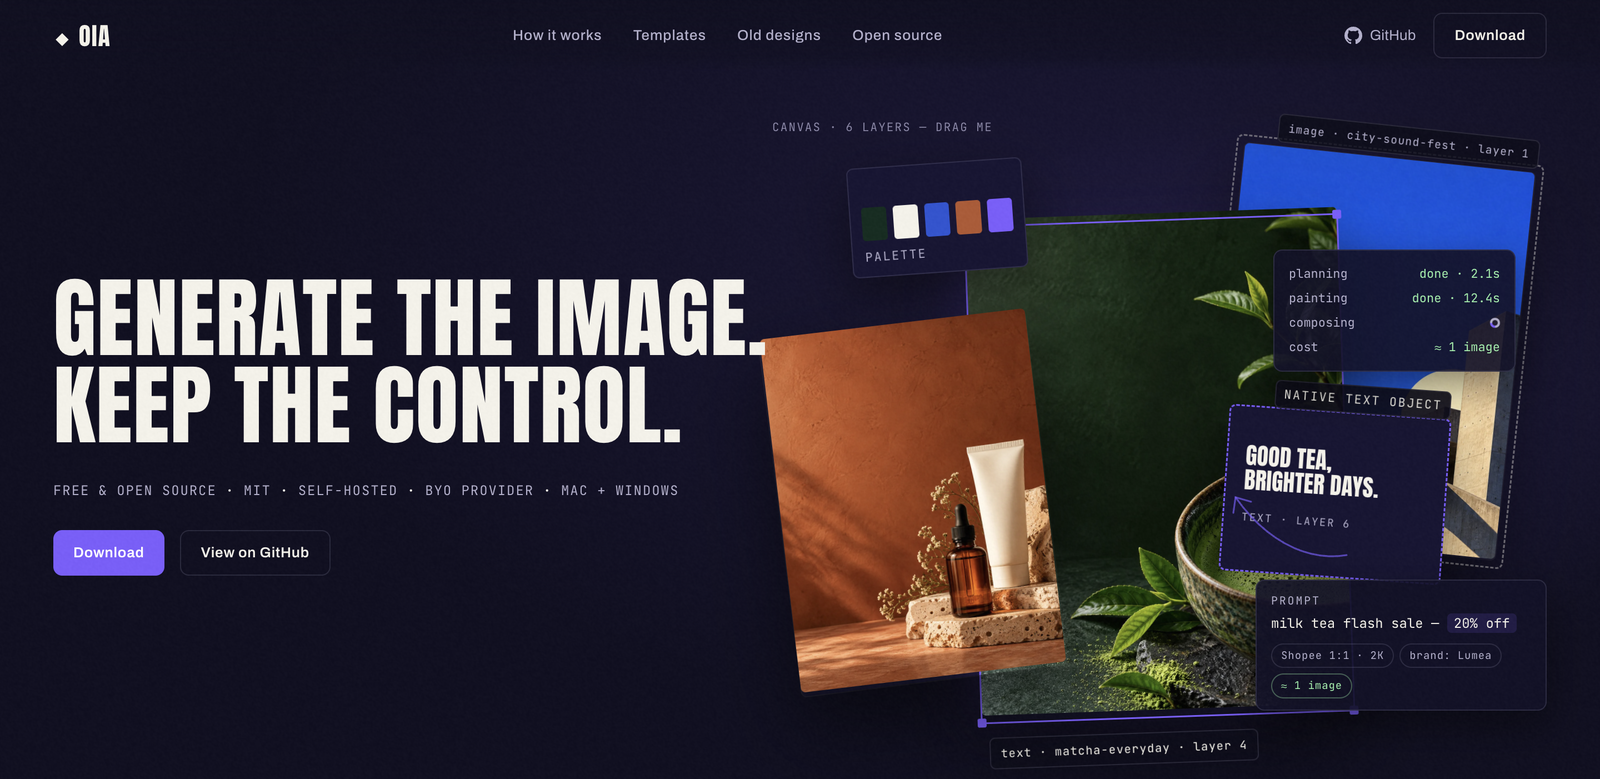
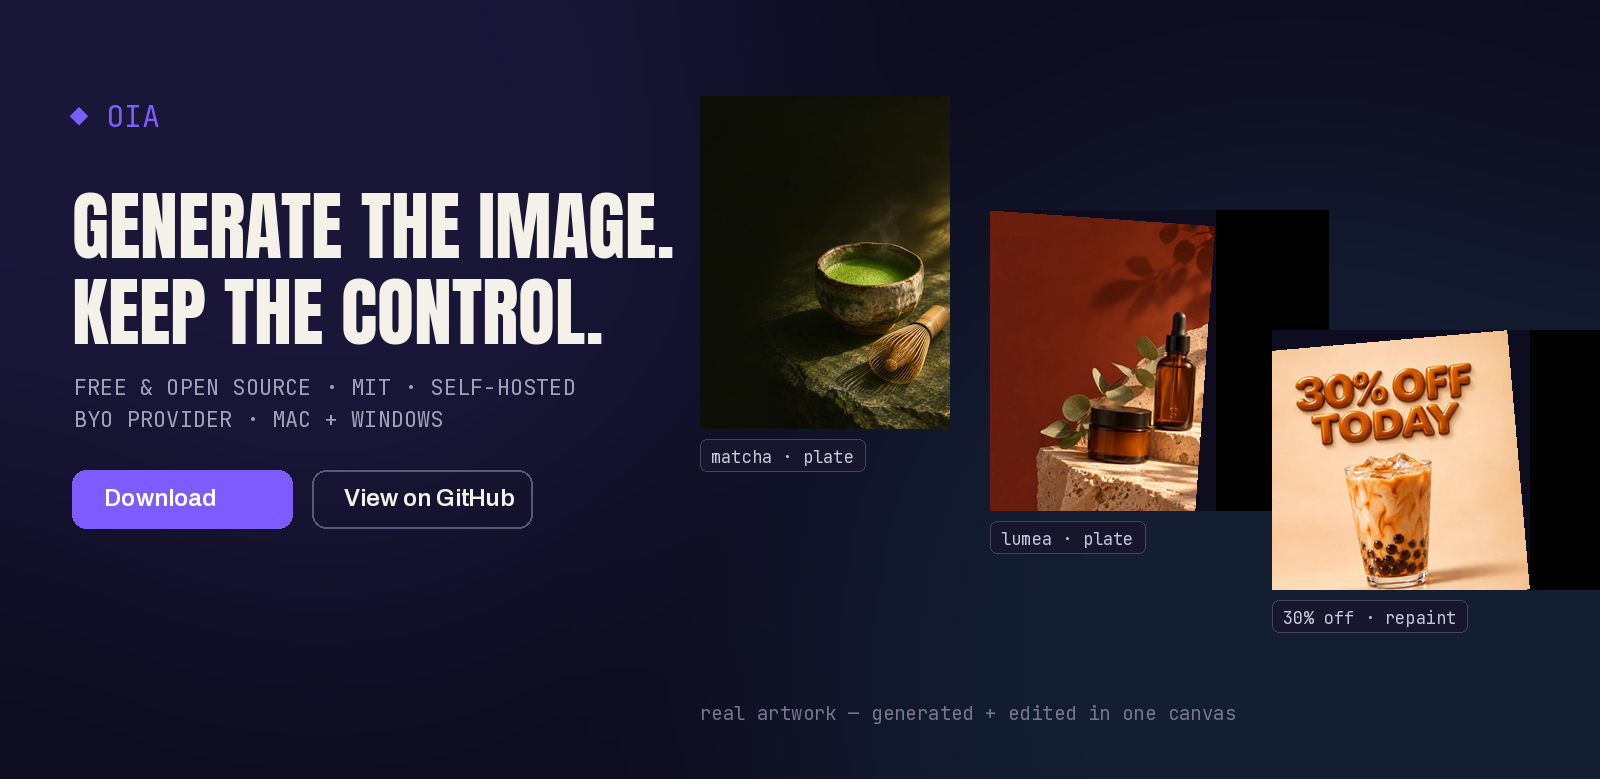
site: replace every landing + README artwork — 19 new generations on the current model
Owner: the old images were from the old-model era, generated without real
prompts, and looked bad ("ảnh cũ thời model cũ chưa có prompt… thay toàn bộ").
The whole visible surface is regenerated in one quota-recorded batch through
the pinned codex pair (rust-v0.167.0), each image with a full prompt; the
prompt sheet IS the provenance record (docs/research/site-artwork-2026-11/).

- 9 template plates + 3 ed-plates + the price-20/30 pair (generated as one
  poster + one true edit so the repaint story stays real) + laborday: 15
  passed vision QC first try — no stray text in any plate, exact copy in
  the posters, matched scene across the pair.
- 4 regens after compositing: botanical and ed-poster2 plates came back too
  light for their light-colored text layers (plates regenerated with the
  dark zone on the right column), sneaker needed a near-black backdrop and
  one data fix in studio-templates.ts ("THE DROP — 12.12" wrapped onto the
  caption line at width 500). Template QA after: 12/12 PASS.
- Derived assets rebuilt from the new set: price-repaint.webp (side-by-side
  pair), the tpl-ed-* bento composites, README banner.png (make-banner.py),
  and a fully rebuilt og-hero.png (new script — the old social preview still
  showed the retired "Old designs" nav).
- App and site stay in sync: every plate lands in BOTH site/assets and the
  renderer's public/studio. Gates after the swap: desktop 202 tests, shot
  green (incl. the ME scenario), smoke OK.
[…]

diff --git a/apps/desktop/src/shared/studio-templates.ts b/apps/desktop/src/shared/studio-templates.ts
@@ -82,8 +82,8 @@ export const STUDIO_TEMPLATES: Template[] = [
     text("RUN LIGHTER.\nLAND SOFTER.", 60, 210, 640, 40, "#c9ccd4" ),
     // visual-QA: the caption nearly melted into the light gradient — near-white now;
     // the date (the actionable line) bumped to rival the tagline.
-    text("THE DROP — 12.12", 470, 1284, 500, 60, "#ffb347", { fontWeight: 800, textAlign: "right" }),
-    text("Limited first run · members early access", 470, 1368, 500, 26, "#e8eaee", { textAlign: "right" }),
+    text("THE DROP — 12.12", 420, 1276, 550, 52, "#ffb347", { fontWeight: 800, textAlign: "right" }),
+    text("Limited first run · members early access", 470, 1360, 500, 24, "#e8eaee", { textAlign: "right" }),
   ], { category: "new-product", pack: "product-launch", w: 1024, h: 1536 }),
   template("holiday", "Year-end blowout", "#0d2b1e", "holiday", [
     text("YEAR-END\nBLOWOUT", 60, 110, 640, 120, "#f5e9c8", { fontWeight: 800, lineHeight: 0.95 }),

diff --git a/docs/research/site-artwork-2026-11/gen.py b/docs/research/site-artwork-2026-11/gen.py
@@ -1,0 +1,130 @@
+#!/usr/bin/env python3
+"""IM-site-art 2026-11-08 — regenerate every AI artwork on the landing site + README.
+
+Owner: "ảnh trong landing page, ảnh trong readme đang rất xấu… ảnh cũ thời model
+cũ chưa có prompt. Tôi cần thay toàn bộ."
+
+Stages (run with the stage argument):
+  gen    — run each prompt through the BUNDLED codex binary ($imagegen), stage the
+           raw PNG into staging/<id>.png, then cover-crop to the exact target size
+  qa     — print the contact sheet path for vision QA (nothing installs without this)
+  install — copy staged webp over site/assets + app public/studio, rebuild derived
+           assets (price-repaint pair composite), leaving README banner/og-hero to
+           their own scripts
+
+Quota: 16 images + planner tokens (owner-approved 2026-11-08).
+Provenance: the prompt sheet below IS the record (SC-4 doctrine).
+"""
+import subprocess, sys, os, time, json, re, shutil
+from PIL import Image
+
+REPO = os.path.dirname(os.path.dirname(os.path.dirname(os.path.dirname(os.path.abspath(__file__)))))
+STAGE = os.path.join(REPO, "docs/research/site-artwork-2026-11/staging")
+BIN = os.path.join(REPO, "apps/desktop/resources/codex/current/bin/codex")
+NOTEXT = " Absolutely no text, no lettering, no numbers, no words, no captions, no logos, no watermarks anywhere in the image — copy is added later as separate editable layers."
+
+# (id, target WxH, aspect words, subject prompt, zone clause)
+PLATES = [
+  ("matcha", (900,1200), "vertical 3:4",
+   "Premium matcha tea editorial still life: a handmade ceramic bowl of whisked matcha with fine steam, bamboo whisk resting beside it, on dark moss-green stone, moody low-key lighting with one warm window light from the right, deep shadows, quiet luxury tea-brand mood, rich texture.",
+   " Keep the LEFT third and the TOP of the frame dark, calm and empty (reserved for text); all visual interest sits in the right half and lower right."),
+  ("festival", (900,1200), "vertical 3:4",
+   "Bold festival poster background: dramatic low-angle view of brutalist concrete architecture with strong geometric shadows against a saturated deep-blue evening sky, sandstone and cobalt palette, crisp high-contrast editorial print mood.",
+   " Keep the top strip and the LEFT half calm (sky or flat concrete — reserved for text); the dynamic forms live on the right."),
+  ("botanical", (900,1200), "vertical 3:4",
+   "Natural skincare editorial still life: amber glass dropper bottle and cream jar on warm travertine stone, soft eucalyptus leaf shadows falling across the scene, terracotta and cream palette, gentle late-afternoon light, premium botanical brand mood.",
+   " Keep the TOP area and the LEFT half quiet and uncluttered (reserved for text); the product cluster sits right of center."),
+  ("flashsale", (1024,1536), "vertical 2:3",
+   "Café scene, premium espresso moment: polished chrome espresso machine pulling a rich shot into a small cup, swirling steam, scattered dark-roast beans on a dark walnut counter, dramatic side lighting, deep browns and brass, high-end coffee-house mood.",
+   " Keep the ENTIRE RIGHT third of the frame dark, simple and uncluttered (reserved for text); all visual interest on the left half."),
+  ("menuboard", (1024,1536), "vertical 2:3",
+   "Artisan bakery scene for a menu board: rustic wooden board with fresh croissants, cardamom buns and a flat white on ceramic, warm flour dust in soft morning light, honey and cream palette, appetizing premium bakery mood.",
+   " Keep the ENTIRE RIGHT third calm and simple (reserved for the menu list); the pastries arrange on the left two-thirds."),
+  ("serum", (1024,1536), "vertical 2:3",
+   "Luxury serum launch still life: one amber glass serum bottle standing on a smooth stone plinth, soft gradient studio background in warm sand tones, a single leaf shadow, minimal elegant beauty photography, generous negative space.",
+   " Keep the TOP strip and the BOTTOM strip calm and empty (reserved for headline and CTA text); the bottle stands in the middle band, slightly right of center."),
+  ("sneaker", (1024,1536), "vertical 2:3",
+   "Hype product drop photo: one cream-and-sage runner sneaker floating dynamically at a slight angle, studio lighting with a soft spotlight, seamless warm-grey backdrop, subtle motion energy, premium streetwear campaign mood.",
+   " Keep the TOP strip and the BOTTOM strip clear (reserved for product name and drop date); the shoe floats in the middle band, slightly right of center."),
+  ("holiday", (1024,1536), "vertical 2:3",
+   "Year-end gift campaign still life: premium gift boxes with gold ribbon on deep emerald velvet, warm bokeh fairy lights behind, rich green and gold palette, luxurious festive mood.",
+   " Keep the TOP-LEFT half of the frame dark and calm (reserved for text); the gift cluster sits lower right."),
+  ("perspective", (900,1200), "vertical 3:4",
+   "Minimal abstract presentation background: soft overlapping translucent shapes in lavender, ink and paper tones on an off-white canvas, subtle grain, calm sophisticated consulting-deck aesthetic.",
+   " Keep the overall composition very calm and low-contrast so presentation text stays readable everywhere."),
+  ("ed-product2", (1254,1254), "square 1:1",
+   "Editorial skincare launch photo: amber dropper bottle on travertine with a soft leaf shadow, warm beige palette, gentle morning light, refined minimal beauty-brand mood.",
+   " Keep the LEFT half soft, calm and empty (reserved for text); the bottle sits right of center."),
+  ("ed-poster2", (1122,1402), "vertical 4:5",
+   "Craft pottery atelier scene: terracotta vases drying on a wooden shelf in warm golden afternoon light, dusty sunbeams, artisan magazine photography mood.",
+   " Keep the RIGHT half calm and uncluttered (reserved for text); the pottery arranges on the left."),
+  ("ed-holiday2", (1122,1402), "vertical 4:5",
+   "Midnight-dark holiday gift scene: one premium gift box wrapped in deep charcoal paper with a thin gold ribbon, single warm candle glow, near-black elegant background, quiet luxury mood.",
+   " Keep the LEFT half of the frame near-black and empty (reserved for text); the gift sits on the right."),
+]
+
+POSTERS = [
+  # baked-text renders — exact copy, rendered INTO the artwork (poster mode)
+  ("price20", (1024,1024), "square 1:1",
+   "Glossy 3D typography milk-tea flash-sale banner: a glass of iced milk tea with boba on a warm cream studio backdrop. Big glossy 3D letters read exactly \"20% OFF TODAY\" — render the text exactly, sharp and readable, centered above the glass. Warm caramel palette, premium sale campaign mood. Keep all text at least 10% clear of every edge."),
+]
+
+EDITS = [
+  # (id, source staging id, instruction) — keeps the style, changes the copy
+  ("price30", "price20",
+   "Edit image 1: change the big glossy 3D text so it reads exactly \"30% OFF TODAY\" instead of \"20% OFF TODAY\". Keep everything else identical — same glass of milk tea, same backdrop, same lighting, same typography style, same layout. Keep all text at least 10% clear of every edge."),
+]
+
+def run_codex(prompt: str, image: str | None = None) -> str:
+    args = [BIN, "exec", "--skip-git-reck-check" if False else "--skip-git-repo-check", "--json", "--sandbox", "read-only", "-C", "/tmp", "-o", "/tmp/last.txt"]
+    if image: args += ["-i", image]
+    before = set(os.listdir(os.path.expanduser("~/.codex/generated_images")))
+    p = subprocess.run(args, input=prompt.encode(), capture_output=True, timeout=420)
+    out = p.stdout.decode(errors="replace")
+    sid = None
+    m = re.search(r'thread\.started[^}]*"id":"([0-9a-f-]{36})"', out)
+    if m: sid = m.group(1)
+    else:
+        new = [d for d in set(os.listdir(os.path.expanduser("~/.codex/generated_images"))) - before]
+        new.sort(key=lambda d: os.path.getmtime(os.path.expanduser(f"~/.codex/generated_images/{d}")))
+        if new: sid = new[-1]
+    if not sid: raise RuntimeError(f"no session id; stderr={p.stderr.decode()[:300]} out={out[:300]}")
+    sd = os.path.expanduser(f"~/.codex/generated_images/{sid}")
+    pngs = sorted(f for f in os.listdir(sd) if f.endswith(".png"))
+    if not pngs: raise RuntimeError(f"no png in session {sid}")
+    return os.path.join(sd, pngs[-1])
+
+def cover_crop(src: str, size: tuple[int,int], dst: str):
+    im = Image.open(src).convert("RGB")
+    tw, th = size
+    r = max(tw / im.width, th / im.height)
+    im2 = im.resize((round(im.width * r), round(im.height * r)), Image.LANCZOS)
+    x = (im2.width - tw) // 2; y = (im2.height - th) // 2
+    im2.crop((x, y, x + tw, y + th)).save(dst, "PNG")
+
+def stage_gen():
+    os.makedirs(STAGE, exist_ok=True)
+    manifest = []
+    for id, size, aspect, subject, zone in PLATES:
+        prompt = f"$imagegen Create a {aspect} image. Subject: {subject}{zone}{NOTEXT}"
+        print(f"[gen] {id} …", flush=True)
+        raw = run_codex(prompt)
+        cover_crop(raw, size, f"{STAGE}/{id}.png")
+        manifest.append({"id": id, "prompt": prompt}); time.sleep(2)
+    for id, size, aspect, subject in POSTERS:
+        prompt = f"$imagegen Create a {aspect} image. {subject}"
+        print(f"[gen] {id} …", flush=True)
+        raw = run_codex(prompt)
+        cover_crop(raw, size, f"{STAGE}/{id}.png")
+        manifest.append({"id": id, "prompt": prompt}); time.sleep(2)
+    for id, src, instruction in EDITS:
+        prompt = f"$imagegen {instruction}"
+        print(f"[gen] {id} (edit of {src}) …", flush=True)
+        raw = run_codex(prompt, image=f"{STAGE}/{src}.png")
+        cover_crop(raw, dict(POSTERS)[src.replace('30','20')][0] if src in dict((p[0], (p[1],)) for p in POSTERS) else dict(POSTERS)["price20"][0], f"{STAGE}/{id}.png")
+        manifest.append({"id": id, "prompt": prompt, "edit_of": src}); time.sleep(2)
+    json.dump(manifest, open(f"{STAGE}/manifest.json", "w"), indent=1)
+    print("staged:", len(manifest))
+
+if __name__ == "__main__":
+    {"gen": stage_gen}[sys.argv[1]]()

diff --git a/docs/research/site-artwork-2026-11/make-og-hero.py b/docs/research/site-artwork-2026-11/make-og-hero.py
@@ -1,0 +1,65 @@
+#!/usr/bin/env python3
+"""Rebuild site/assets/og-hero.png (social preview) from the NEW artwork set.
+
+1600x779 — matches the previous og file's shape. Left: brand copy on the site's
+dark navy; right: a layered stack of the new hero plates + the price pair,
+styled like the landing hero's draggable layers (chips + dashed selection).
+"""
+from PIL import Image, ImageDraw, ImageFont, ImageFilter
+import os
+
+REPO = os.path.dirname(os.path.dirname(os.path.dirname(os.path.dirname(os.path.abspath(__file__)))))
+A = os.path.join(REPO, "site/assets")
+W, H = 1600, 779
+BG = (14, 13, 31)
+PAPER = (244, 241, 232)
+MUTED = (163, 160, 184)
+ACCENT = (124, 92, 255)
+
+F = "/tmp/oia-fonts/"
+anton = lambda px: ImageFont.truetype(F + "Anton-Regular.ttf", px)
+archivo = lambda px: ImageFont.truetype(F + "Archivo[wdth,wght].ttf", px)
+mono = lambda px: ImageFont.truetype(F + "JetBrainsMono[wght].ttf", px)
+
+img = Image.new("RGB", (W, H), BG)
+glow = Image.new("RGB", (W, H), BG)
+d = ImageDraw.Draw(glow)
+for cx, cy, r, col in [(320, 180, 420, (36, 30, 78)), (1300, 640, 480, (24, 44, 66))]:
+    d.ellipse([cx - r, cy - r, cx + r, cy + r], fill=col)
+glow = glow.filter(ImageFilter.GaussianBlur(120))
+img = Image.blend(img, glow, 0.55)
+d = ImageDraw.Draw(img)
+
+d.text((70, 96), "◆ OIA", font=mono(30), fill=ACCENT)
+d.text((72, 168), "GENERATE THE IMAGE.", font=anton(76), fill=PAPER)
+d.text((72, 254), "KEEP THE CONTROL.", font=anton(76), fill=PAPER)
+d.text((74, 372), "FREE & OPEN SOURCE · MIT · SELF-HOSTED", font=mono(22), fill=MUTED)
+d.text((74, 404), "BYO PROVIDER · MAC + WINDOWS", font=mono(22), fill=MUTED)
+
+btn = ImageDraw.Draw(img)
+btn.rounded_rectangle([72, 470, 292, 528], 14, fill=ACCENT)
+btn.text((104, 484), "Download", font=archivo(24), fill=(255, 255, 255))
+btn.rounded_rectangle([312, 470, 532, 528], 14, outline=(90, 88, 116), width=2)
+btn.text((344, 484), "View on GitHub", font=archivo(24), fill=PAPER)
+
+def tile(src, box, angle=0, chip=None):
+    im = Image.open(src).convert("RGB")
+    im = im.resize((box[2] - box[0], box[3] - box[1]), Image.LANCZOS)
+    if angle:
+        im = im.rotate(angle, expand=True, fillcolor=BG, resample=Image.BICUBIC)
+        # keep inside the reserved zone after rotation
+        im = im.crop((im.width - (box[2] - box[0]) // 2 - (box[2] - box[0]) // 2, 0, im.width - (box[2] - box[0]) // 2 + (box[2] - box[0]), (box[3] - box[1])))
+    img.paste(im, (box[0], box[1]))
+    if chip:
+        d.rounded_rectangle([box[0], box[3] + 10, box[0] + d.textlength(chip, font=mono(17)) + 22, box[3] + 42], 7, fill=(24, 22, 44), outline=(70, 66, 96))
+        d.text((box[0] + 11, box[3] + 16), chip, font=mono(17), fill=(201, 198, 218))
+
+tile(f"{A}/matcha.webp", (700, 96, 950, 429), chip="matcha · plate")
+tile(f"{A}/botanical.webp", (990, 210, 1216, 511), angle=-4, chip="lumea · plate")
+tile(f"{A}/price-30.webp", (1272, 330, 1530, 590), angle=5, chip="30% off · repaint")
+
+d = ImageDraw.Draw(img)
+d.text((700, 700), "real artwork — generated + edited in one canvas", font=mono(19), fill=(120, 117, 142))
+
+img.save(f"{A}/og-hero.png")
+print("saved", img.size)

diff --git a/docs/designs/desktop-only-reorg.md b/docs/designs/desktop-only-reorg.md
@@ -336,3 +336,13 @@ Owner: "update codex version lên trước đi" + "dùng codex đi" (sau khi xá
 - **Vá bẫy env-shadow (bài học 7/11):** `smokeModeFromEnv` giờ cho REAL thắng mọi cờ mock kể cả khi `pnpm smoke` tự set `OIA_DESKTOP_SMOKE=1`; test pin cặp cờ chồng nhau.
 - **Deploy config vào repo:** `wrangler.toml` ở root (worker `twilight-sun-6b7b`, account 6b2f7e5e…, assets ./site) + README ghi rõ origin thật của oia.solutions là Worker, không phải GitHub Pages; deploy = `wrangler deploy`.
 - Gates: turbo no-cache 25/25; agent 88 / services 42 / schema 27 / providers 113+1skip / desktop 202 test; smoke OK; shot xanh kèm ME scenario. Quota tiêu vòng này: 0 ảnh (toàn mock + shot).
+
+## Ghi nhận thay toàn bộ artwork landing + README (2026-11-08, owner "thay toàn bộ")
+
+Owner: ảnh cũ "thời model cũ, chưa có prompt, rất xấu" — regenerate TOÀN BỘ ảnh AI trên landing + README bằng đợt sinh hàng loạt qua codex pin 0.167.0, mỗi ảnh có prompt đầy đủ (provenance: `docs/research/site-artwork-2026-11/` — manifest prompt nằm trong gen.py).
+
+- **15 ảnh mới 1 lần pass QC** (vision, không text lọt vào plate, cặp price-20/30 đúng chính tả + cùng phong cách, laborday 9/10) + **4 ảnh sinh lại sau QC composite**: botanical + ed-poster2 (chữ sáng chìm trên plate sáng → plate mới vùng tối đúng cột chữ), sneaker ×2 (greige → charcoal đậm; lần 2 chỉ còn lỗi wrap text "THE DROP — 12.12" trong template → sửa data studio-templates.ts width/size). Template QA tổng: 12/12 PASS.
+- **Ảnh phái sinh dựng lại**: price-repaint.webp (cặp mới ghép ngang), tpl-ed-* bento composites (plate mới), README banner.png (make-banner.py, PASS), og-hero.png DỰNG LẠI hoàn toàn (script mới make-og-hero.py — bản cũ còn nav "Old designs" lỗi thời; 9/10).
+- **App assets đồng bộ**: 9 plate + 3 ed-plate đè cả `public/studio/` (site và app dùng cùng artwork) — desktop 202 test + shot + smoke xanh sau thay.
+- **Deploy**: wrangler deploy (worker v8d870ad3) + verify hash live khớp local từng file.
+- **Quota ledger đợt này: 19 ảnh thật** (15 + 3 regen + 1 sneaker lần 2) + planner tokens — owner phóng hạn 2026-11-08.
